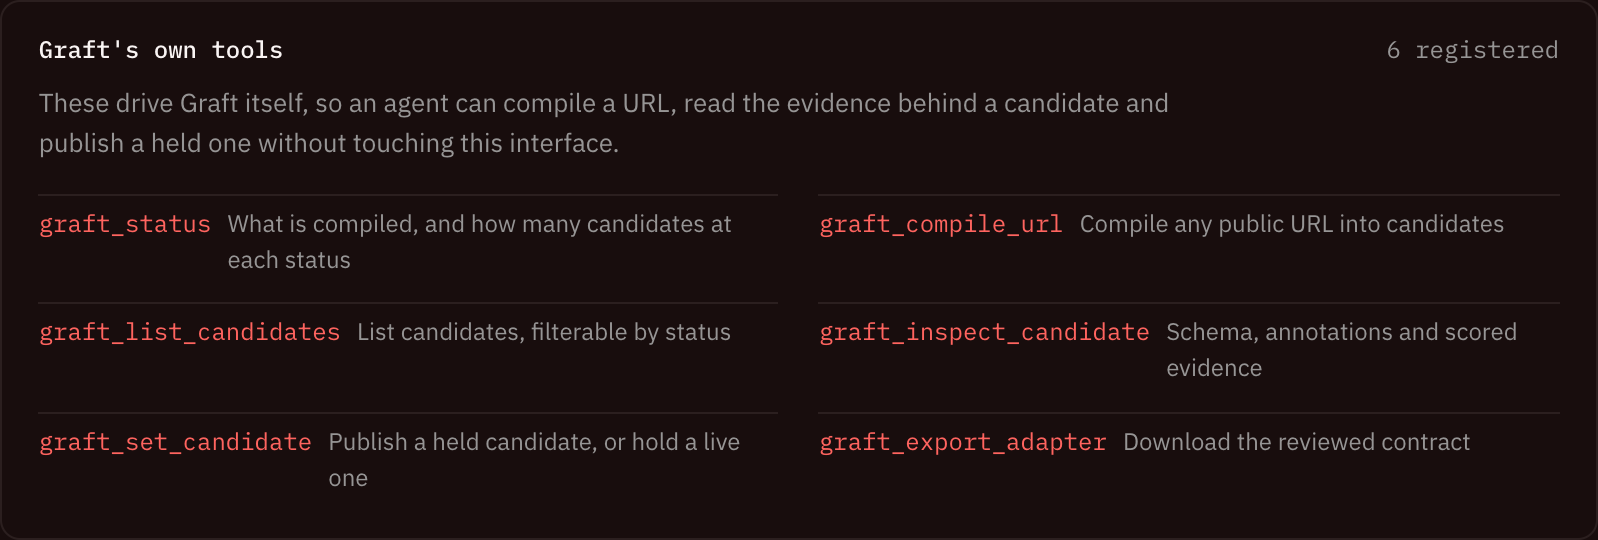
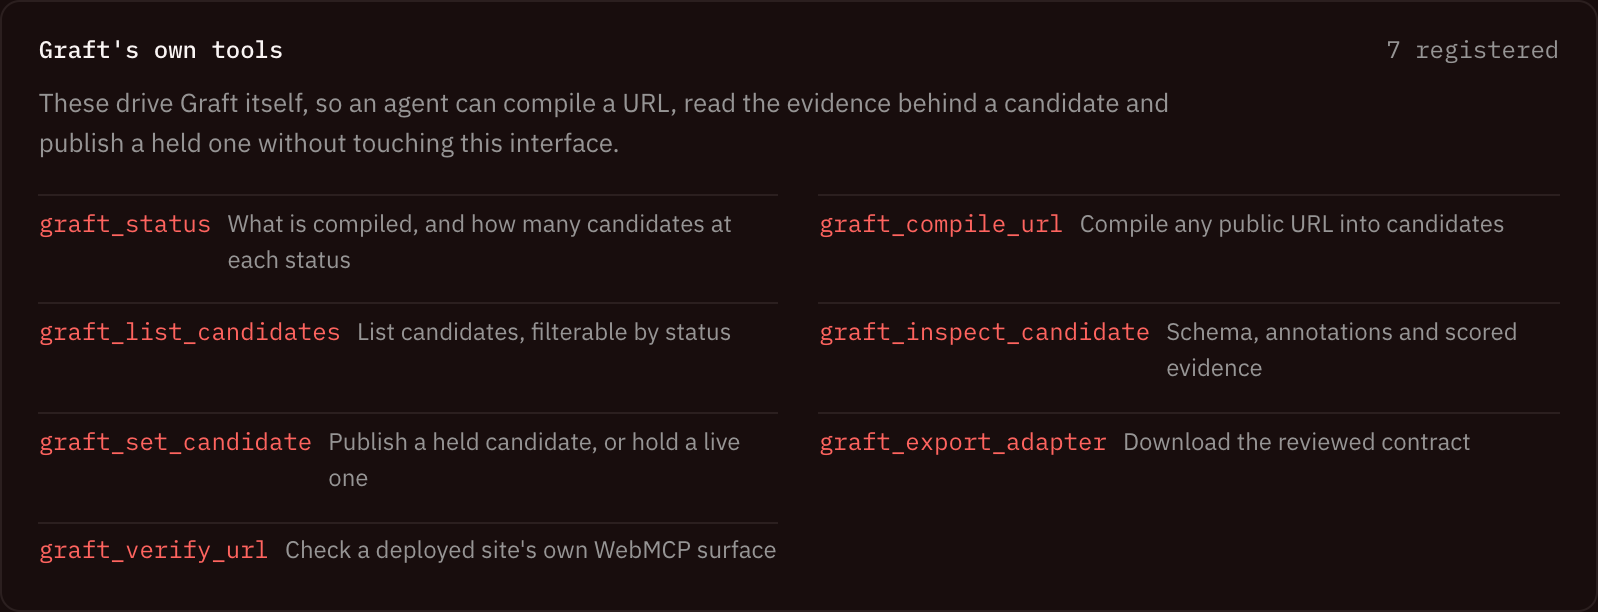
Align owner handlers with their contracts and test them
Three owner handlers read arguments their generated schemas never
declared. get_product read args.title while the contract required
product_id, so an agent following the contract could never reach it, and
the earlier demo passed arguments that were not schema-valid. Handlers
now read exactly what the schema publishes, search_catalog implements the
in_stock filter it declares, and the held write ships the reviewed
descriptor verbatim instead of a hand-rewritten one.

scripts/smoke-owner-site.mjs executes every registered tool with
arguments generated from its own schema, drawing values from declared
enums, defaults and minimums. It fails on undeclared arguments, on a
required field the schema gave no sample for, and on a result that reads
as unfilled. All six pass.

Doing that surfaced a real verifier bug: Chrome returns inputSchema and
annotations as JSON strings, so the checker was testing a string against
an object shape and skipping every structural check while reporting the
contracts as sound. Both are parsed now, and nine tests prove the checker
catches over-length names, non-snake_case names, over-length
descriptions, open additionalProperties, untyped parameters and a missing
readOnlyHint, while staying silent about fields the browser never exposes.

Drift now distinguishes a missing tool, which fails because something
reviewed is gone, from an added tool, which is reported as a fact about
the site rather than folded into a claim that the surfaces match.
[…]

diff --git a/examples/owner-site/owner.js b/examples/owner-site/owner.js
@@ -25,7 +25,7 @@ function ok(message, data) {
 }
 
 /** Search genuinely filters the page, so the human watching sees it happen. */
-function applyFilter(query, category) {
+function applyFilter(query, category, inStock) {
   const needle = (query ?? "").trim().toLowerCase();
   const wanted = (category ?? "").trim().toLowerCase();
   let shown = 0;
@@ -35,7 +35,8 @@ function applyFilter(query, category) {
     const haystack = `${product.title} ${product.description} ${product.category}`.toLowerCase();
     const hit =
       (!needle || haystack.includes(needle)) &&
-      (!wanted || wanted === "all" || product.category.toLowerCase() === wanted);
+      (!wanted || wanted === "all" || product.category.toLowerCase() === wanted) &&
+      (!inStock || /in stock/i.test(product.availability));
     article.hidden = !hit;
     if (hit) {
       shown += 1;
@@ -67,8 +68,11 @@ const handlers = {
       },
     ),
 
+  // Every parameter below is one the generated schema declares. A handler that
+  // reads a name the contract does not publish is a handler an agent can never
+  // reach.
   search_catalog: async (args) => {
-    const { shown, matches } = applyFilter(args?.query, args?.category);
+    const { shown, matches } = applyFilter(args?.query, args?.category, args?.in_stock === true);
     return ok(`${shown} of ${products().length} products match.`, { total: shown, results: matches });
   },
 
@@ -84,9 +88,9 @@ const handlers = {
   },
 
   get_product: async (args) => {
-    const wanted = String(args?.title ?? "").trim().toLowerCase();
-    const found = products().map(readProduct).find((product) => product.title.toLowerCase() === wanted);
-    if (!found) return ok(`No product titled "${args?.title}".`);
+    const wanted = String(args?.product_id ?? "").trim().toLowerCase();
+    const found = products().map(readProduct).find((product) => product.id.toLowerCase() === wanted);
+    if (!found) return ok(`No product with id "${args?.product_id}".`);
     return ok(`${found.title}, ${found.price}, ${found.availability}.`, found);
   },
 };
@@ -97,13 +101,11 @@ const handlers = {
 const heldWrite = graftManifest.tools.find((tool) => tool.name === "add_to_demo_cart");
 
 async function addToCart(args) {
-  const wanted = String(args?.product_id ?? args?.title ?? "").trim().toLowerCase();
+  const wanted = String(args?.product_id ?? "").trim().toLowerCase();
   const article = products().find(
-    (node) =>
-      node.getAttribute("data-product-id")?.toLowerCase() === wanted ||
-      readProduct(node).title.toLowerCase() === wanted,
+    (node) => node.getAttribute("data-product-id")?.toLowerCase() === wanted,
   );
-  if (!article) return ok(`No product matching "${wanted}".`);
+  if (!article) return ok(`No product with id "${args?.product_id}".`);
   const product = readProduct(article);
   const quantity = Math.max(1, Math.min(3, Number(args?.quantity ?? 1)));
   cartItems.push({ title: product.title, quantity });
@@ -125,21 +127,14 @@ async function boot() {
   const context = document.modelContext ?? navigator.modelContext;
 
   if (heldWrite && context) {
+    // The reviewed contract ships as written. Re-declaring it by hand is how a
+    // shipped tool quietly stops matching what was reviewed.
     await context.registerTool(
       {
         name: heldWrite.name,
-        description:
-          "Add a product to this site's cart. The owner reviewed and bound this handler; Graft held the candidate rather than registering it automatically.",
-        inputSchema: {
-          type: "object",
-          properties: {
-            product_id: { type: "string", description: "Product id or exact title." },
-            quantity: { type: "integer", description: "How many, 1 to 3.", minimum: 1, maximum: 3 },
-          },
-          required: ["product_id"],
-          additionalProperties: false,
-        },
-        annotations: { readOnlyHint: false, untrustedContentHint: true },
+        description: heldWrite.description,
+        inputSchema: heldWrite.inputSchema,
+        annotations: heldWrite.annotations ?? { readOnlyHint: false, untrustedContentHint: true },
         execute: addToCart,
       },
       {},
@@ -161,7 +156,11 @@ async function boot() {
 document.querySelector("form.search-grid")?.addEventListener("submit", (event) => {
   event.preventDefault();
   const data = new FormData(event.currentTarget);
-  applyFilter(String(data.get("query") ?? ""), String(data.get("category") ?? ""));
+  applyFilter(
+    String(data.get("query") ?? ""),
+    String(data.get("category") ?? ""),
+    data.get("in_stock") !== null,
+  );
 });
 
 boot().catch((error) => {

diff --git a/src/verifyChecks.test.ts b/src/verifyChecks.test.ts
@@ -1,0 +1,78 @@
+import { describe, expect, it } from "vitest";
+import { inspectTool } from "../api/verify";
+
+const exposes = { inputSchema: true, annotations: true };
+
+function tool(overrides: Record<string, unknown> = {}) {
+  return {
+    name: "list_products",
+    description: "List the products on this page.",
+    inputSchema: {
+      type: "object",
+      properties: { limit: { type: "integer", description: "How many rows." } },
+      additionalProperties: false,
+    },
+    annotations: { readOnlyHint: true },
+    ...overrides,
+  } as Parameters<typeof inspectTool>[0];
+}
+
+describe("contract checker accepts a sound contract", () => {
+  it("finds nothing wrong with a well formed tool", () => {
+    expect(inspectTool(tool(), exposes).issues).toEqual([]);
+  });
+});
+
+describe("contract checker catches real defects", () => {
+  it("flags a name over the 30 character budget", () => {
+    const issues = inspectTool(tool({ name: "a".repeat(31) }), exposes).issues;
+    expect(issues.some((issue) => issue.includes("over 30"))).toBe(true);
+  });
+
+  it("flags a name that is not snake_case", () => {
+    const issues = inspectTool(tool({ name: "ListProducts" }), exposes).issues;
+    expect(issues.some((issue) => issue.includes("snake_case"))).toBe(true);
+  });
+
+  it("flags a description over the 500 character budget", () => {
+    const issues = inspectTool(tool({ description: "x".repeat(501) }), exposes).issues;
+    expect(issues.some((issue) => issue.includes("over 500"))).toBe(true);
+  });
+
+  it("flags a schema that permits additional properties", () => {
+    const issues = inspectTool(
+      tool({ inputSchema: { type: "object", properties: {}, additionalProperties: true } }),
+      exposes,
+    ).issues;
+    expect(issues.some((issue) => issue.includes("additional properties"))).toBe(true);
+  });
+
+  it("flags a parameter with no description or type", () => {
+    const issues = inspectTool(
+      tool({
+        inputSchema: { type: "object", properties: { limit: {} }, additionalProperties: false },
+      }),
+      exposes,
+    ).issues;
+    expect(issues.some((issue) => issue.includes('parameter "limit" has no description'))).toBe(true);
+    expect(issues.some((issue) => issue.includes('parameter "limit" declares no type'))).toBe(true);
+  });
+
+  it("flags a missing readOnlyHint when the browser does expose annotations", () => {
+    const issues = inspectTool(tool({ annotations: {} }), exposes).issues;
+    expect(issues.some((issue) => issue.includes("readOnlyHint"))).toBe(true);
+  });
+
+  it("stays silent about annotations the browser never exposes", () => {
+    const issues = inspectTool(tool({ annotations: null }), {
+      inputSchema: true,
+      annotations: false,
+    }).issues;
+    expect(issues.some((issue) => issue.includes("readOnlyHint"))).toBe(false);
+  });
+
+  it("never asserts a schema is missing, since a listing may omit it", () => {
+    const issues = inspectTool(tool({ inputSchema: null }), exposes).issues;
+    expect(issues.some((issue) => issue.toLowerCase().includes("schema"))).toBe(false);
+  });
+});

diff --git a/api/verify.ts b/api/verify.ts
@@ -1,7 +1,7 @@
 import { assertPublicHost, IntakeError } from "./_net.js";
 import { readNativeTools } from "./_render.js";
 
-interface Check {
+export interface Check {
   id: string;
   label: string;
   pass: boolean;
@@ -10,7 +10,7 @@ interface Check {
   detail: string;
 }
 
-interface ToolFinding {
+export interface ToolFinding {
   name: string;
   issues: string[];
 }
@@ -22,7 +22,7 @@ const DESCRIPTION_LIMIT = 500;
  * Contract checks mirror the budgets Chrome's own WebMCP guidance publishes,
  * so a pass here means the same thing an agent client would conclude.
  */
-function inspectTool(
+export function inspectTool(
   tool: {
     name: string;
     description: string;
@@ -151,7 +151,7 @@ export default async function handler(req: any, res: any) {
     });
 
     // Drift: what the owner shipped against what Graft last reviewed.
-    let drift: { missing: string[]; added: string[] } | null = null;
+    let drift: { missing: string[]; added: string[]; exact: boolean } | null = null;
     if (expectedRaw) {
       const expected: string[] = expectedRaw
         .split(",")
@@ -159,17 +159,21 @@ export default async function handler(req: any, res: any) {
         .filter(Boolean);
       const missing = expected.filter((name: string) => !names.includes(name));
       const added = names.filter((name) => !expected.includes(name));
-      drift = { missing, added };
+      drift = { missing, added, exact: missing.length === 0 && added.length === 0 };
+      // A missing tool breaks something that was reviewed and shipped, so it
+      // fails. An extra tool is a fact about the site, not a defect: owners add
+      // tools Graft never proposed. It is reported, never silently folded into
+      // a claim that the surfaces match.
       checks.push({
         id: "no-drift",
-        label: "Shipped surface matches the reviewed contract",
+        label: "Every reviewed tool is still live",
         pass: missing.length === 0,
         detail:
-          missing.length === 0
-            ? added.length === 0
-              ? "Exactly the reviewed tools are live."
-              : `All reviewed tools are live. ${added.length} additional tool(s) present: ${added.join(", ")}`
-            : `Missing from the live site: ${missing.join(", ")}`,
+          missing.length > 0
+            ? `Missing from the live site: ${missing.join(", ")}. Something that was reviewed is no longer registered.`
+            : added.length === 0
+              ? "Exact match. The live surface is precisely the reviewed contract."
+              : `All ${expected.length} reviewed tool(s) are live. ${added.length} tool(s) present that were not in the reviewed contract: ${added.join(", ")}. Not a failure, but worth confirming they were intended.`,
       });
     }
 

diff --git a/api/_render.ts b/api/_render.ts
@@ -209,6 +209,19 @@ export async function readNativeTools(target: URL): Promise<NativeToolReport | n
         await settle(500);
       }
 
+      // Chrome returns inputSchema and annotations as JSON strings. Treating a
+      // string as an object silently skips every structural check, so the
+      // verifier would report contracts as sound without ever reading one.
+      const parse = (value: unknown) => {
+        if (value == null) return null;
+        if (typeof value !== "string") return value;
+        try {
+          return JSON.parse(value);
+        } catch {
+          return null;
+        }
+      };
+
       return {
         modelContextPresent: true,
         surface: doc?.modelContext ? ("document" as const) : ("navigator" as const),
@@ -221,8 +234,8 @@ export async function readNativeTools(target: URL): Promise<NativeToolReport | n
         tools: tools.map((tool) => ({
           name: String(tool.name ?? ""),
           description: String(tool.description ?? ""),
-          inputSchema: tool.inputSchema ?? null,
-          annotations: (tool.annotations as Record<string, unknown>) ?? null,
+          inputSchema: parse(tool.inputSchema),
+          annotations: parse(tool.annotations) as Record<string, unknown> | null,
         })),
         userAgent: String(nav?.userAgent ?? ""),
       };

diff --git a/README.md b/README.md
@@ -12,7 +12,7 @@ Paste any public URL. Graft reads that page once on the server, strips every scr
 
 - **Live intake.** Any public HTML page. Authentication, banking, mail and government domains are refused by policy, private and link-local addresses are refused at every redirect hop, and `robots.txt` is honoured.
 - **Verify what you shipped, and detect drift.** `graft_verify_url` opens a deployed site in a headless browser, reads the tools it actually registers, and reports whether the contracts are well formed and uniquely named. Pass the tool names you exported and it reports drift: what is missing, what is new. This closes the loop from discover to review to ship to verify to maintain.
-- **Graft is agent-operable itself.** Alongside the tools it derives, Graft registers its own control surface: `graft_status`, `graft_compile_url`, `graft_list_candidates`, `graft_inspect_candidate`, `graft_set_candidate` and `graft_export_adapter`. An agent can ask Graft to compile a URL, read the scored evidence behind a candidate, publish a held one and export the reviewed contract, without touching the interface. The `graft_` prefix is load-bearing: compiling Graft's own page derives a `list_tool_candidates`, and two tools cannot share a name.
+- **Graft is agent-operable itself.** Alongside the tools it derives, Graft registers its own control surface: `graft_status`, `graft_compile_url`, `graft_list_candidates`, `graft_inspect_candidate`, `graft_set_candidate`, `graft_export_adapter` and `graft_verify_url`. An agent can ask Graft to compile a URL, read the scored evidence behind a candidate, publish a held one and export the reviewed contract, without touching the interface. The `graft_` prefix is load-bearing: compiling Graft's own page derives a `list_tool_candidates`, and two tools cannot share a name.
 - **Live search, not just snapshot filtering.** When a page's search form declares a GET endpoint, the derived tool replays the query against the live site and returns fresh results the snapshot never held. `search_this_site("asyncio")` on python.org returns 20 real results. The replay goes through the same intake endpoint, so it inherits every host check, the denylist, robots and the size caps.
 - **Semantic derivation.** Search forms, repeated content regions and data tables become typed tools. Site chrome such as navigation, table-of-contents and footers is excluded, because a nav bar repeats exactly like content does.
 - **Explainable confidence.** A name lifted from a class attribute is not an accessible name, and the difference is scored. Every tool shows the evidence behind its number.
@@ -61,9 +61,9 @@ add_to_demo_cart("palm-relay", 2)  → cart goes "Empty" → "2 x Palm Relay ($1
 `CHROME_PATH=/path/to/chrome node scripts/verify-native.mjs [url]` drives the deployed site, or an optional URL, in a real Chrome and prints what actually happens. `CHROME_PATH` is optional when Chrome is installed in a standard system location. Recorded run, 2026-08-27:
 
 ```
-11 tools registered natively:
+12 tools registered natively:
   graft_status, graft_compile_url, graft_list_candidates, graft_inspect_candidate,
-  graft_set_candidate, graft_export_adapter,
+  graft_set_candidate, graft_export_adapter, graft_verify_url,
   get_page_summary, get_page_outline, get_product, list_navigation, list_products
 
 graft_status              -> books.toscrape.com, 6 candidates (5 auto, 1 held), 5 registered
@@ -86,8 +86,9 @@ Two implementation notes worth knowing if you build against this API. Chrome tak
 4. Ask the agent: **"List the products on this page and tell me which one is cheapest."**
 5. Expand the successful call to see its arguments and returned data.
 6. Paste a URL of your own into the intake field and compile it.
-7. Switch to **Owned fixture** to see the same compiler run offline against bundled pages, including one confirmed local-only mutation.
-8. Export the reviewed contract.
+7. Open **https://graft-owner-example.vercel.app**. That is an ordinary site on an origin Graft does not serve, running an adapter Graft generated. Ask the agent to search it and add something to the cart, and watch the page change.
+8. Back in Graft, call `graft_verify_url` on that owner site. It reports 6 tools live, contracts well formed, and no drift against the exported contract.
+9. Export the reviewed contract, and switch to **Owned fixture** to see the same compiler run offline.
 
 The interface remains usable when native WebMCP is unavailable, but it reports that state clearly and does not claim tools were registered.
 

diff --git a/docs/TECHNICAL_SPEC.md b/docs/TECHNICAL_SPEC.md
@@ -2,7 +2,14 @@
 
 ## 1. Scope and invariants
 
-Graft is a client-side React, TypeScript and Vite application. Its core compiler accepts a `Document`-shaped root without depending on a fixture ID, but the P0 product supplies only three owned static fixtures. Pasted HTML, uploaded snapshots, permissioned URL intake and live third-party pages are future inputs, not shipped claims.
+Graft is a React, TypeScript and Vite application with serverless intake and verification endpoints. Its core compiler accepts a `Document`-shaped root without depending on a fixture ID, and three intake paths feed it the same way: live URL, pasted markup and bundled fixture.
+
+Shipped since this document was first written, and authoritative in the README:
+
+- `api/fetch.ts` reads a public page server-side with host, robots and size guards, and renders JavaScript-built pages in a headless browser when the server returns a shell.
+- `api/verify.ts` opens a deployed site and reports the WebMCP surface it actually registers, including drift against an exported contract.
+- A control plane registers Graft's own operations as WebMCP tools under a `graft_` prefix.
+- `examples/owner-site` is a deployed integration proving exported contracts work off Graft's origin.
 
 The implementation must preserve five invariants:
 
@@ -42,7 +49,7 @@ There is no server, remote registry, target fetcher, credential bridge or third-
 
 | Responsibility | Contract |
 | --- | --- |
-| Fixture intake | Load one owned fixture by stable ID and produce a same-origin `Document`. |
+| Intake | Load a live URL, pasted markup or an owned fixture, and produce a sanitized, inert `Document`. |
 | Snapshot sanitizer | Remove active content and return sanitized DOM plus a report of removed features. |
 | Deriver | Detect supported semantic patterns and emit deterministic candidates. |
 | Confidence gate | Attach a score, reasons and `auto`, `held` or `rejected` status. |

diff --git a/docs/PRD.md b/docs/PRD.md
@@ -9,7 +9,7 @@
 
 Graft is a governed DOM-to-WebMCP compiler for owned page snapshots. It compiles a safe static snapshot into explainable tool candidates, lets a human review the contracts, registers the approved tools in the current page and exports the reviewed result as a starting point for owner-shipped integration.
 
-The judged experience uses three original fixtures. Graft does not fetch or re-serve arbitrary third-party websites, run imported scripts, forward credentials or claim universal website compatibility.
+The judged experience compiles any public URL, pasted markup or one of three original fixtures. Graft reads a page once on the server and never re-serves it under its own origin, never runs the target's scripts in your tab, never forwards credentials and does not claim universal website compatibility. See the README for the shipped surface, which is the authority when this document and the code disagree.
 
 ## 2. Problem
 
@@ -27,7 +27,7 @@ Graft shortens the first pass. It makes the proposed contract visible, editable 
 
 ## 4. Core experience
 
-1. The user opens Graft and chooses one of three owned fixtures.
+1. The user opens Graft, which compiles a live page on load, and can point it at any public URL.
 2. Graft creates a sanitized, inert snapshot and displays its source and trust status.
 3. The compiler detects semantic patterns and proposes typed tools.
 4. High-confidence tools are eligible for registration. Ambiguous tools are held with reasons.

diff --git a/docs/DEMO_RUNBOOK.md b/docs/DEMO_RUNBOOK.md
@@ -23,7 +23,7 @@ Do not claim arbitrary URL support, a global registry, third-party mutation, ori
 - Run `npm run build`.
 - Start the production build with `npm run preview` or use the deployed live URL.
 - Open a fresh Graft session. If a rehearsal review is still saved, remove only `graft:review:catalog` from local storage, then reload.
-- Confirm all three fixture cards load with no network or console errors.
+- Confirm the live compile finishes on load, the badge reports the full native tool count, and the six preset pages load with no console errors.
 - Confirm export downloads and opens as expected.
 
 ### Browser
@@ -33,7 +33,7 @@ Use the latest ChatGPT desktop in-app browser first. The official alternative is
 - Confirm the page reports the native WebMCP surface as available.
 - Confirm `document.modelContext` is used. Chrome 149 may use the compatibility fallback.
 - Confirm the expected Signal Cabinet tools are registered.
-- Call one read tool, cancel one local-cart call and then recompile the fixture.
+- Call one read tool, run `graft_verify_url` against the deployed owner site, then recompile a different URL.
 - Close unrelated tabs and hide personal bookmarks, notifications, account names and extensions.
 
 An origin trial token is optional and is not part of the demo dependency.
